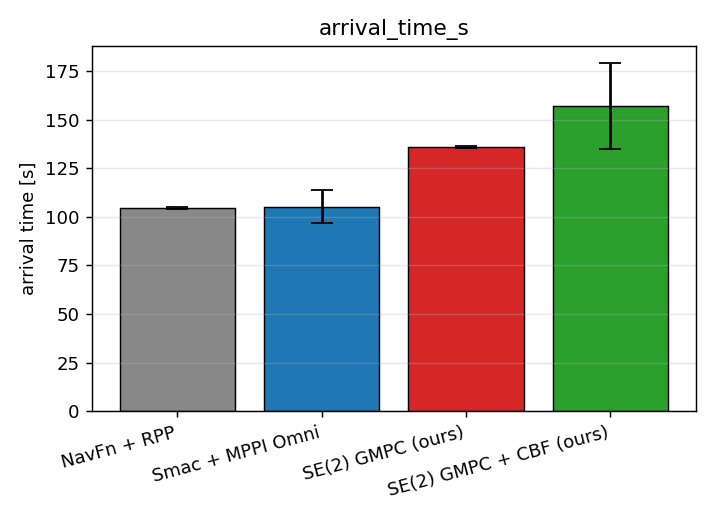
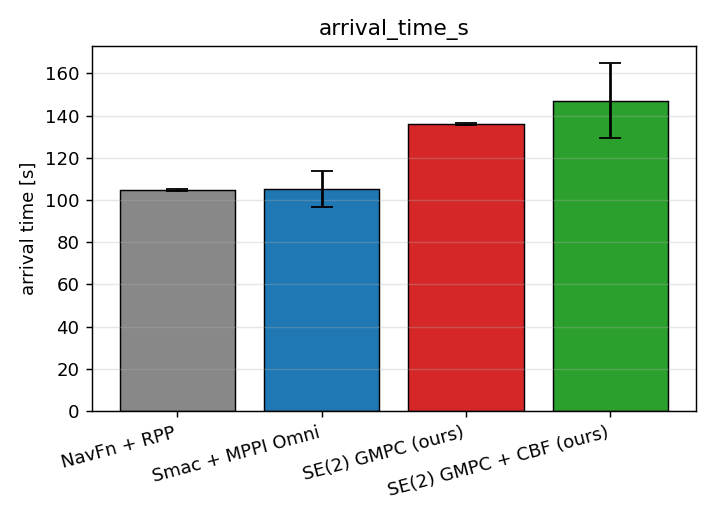
Auto-update: 2026-06-04 01:37

diff --git a/第二次進度報告_大綱.md b/第二次進度報告_大綱.md
@@ -221,27 +221,27 @@ $$\dot h_i(k) + \alpha\, h_i(k) \;\ge\; -\,\varepsilon_k,\qquad \dot h_i(k)=2\bi
 
 ---
 
-## P12 — 實驗四：動態場景預測式避障（GMPC + 全時域 CBF）✅
+## P12 — 實驗四:動態場景 4 方法對比(N=10 × 4)✅
 
-**投影片要點**（動態場景，含 KF 預測 + 全時域 CBF，實跑結果）
+**投影片要點**(3 個動態障礙物 @ 0.3 m/s,goal=(17,17),N=10 trials per method)
 
-| 指標 | GMPC + CBF（動態實跑） | 解讀 |
-|---|---|---|
-| 任務成功 | **是（成功到達）** | 動態場景仍完成導航 |
-| 到達時間 | 144.6 s | — |
-| 追蹤 RMSE | **0.084 m** | 比靜態 corner_goal（0.143 m）更佳 |
-| 碰撞數 | **0** | 安全機制成立 |
-| 最小淨距 | **0.286 m** | 守住 ≈ 安全邊界 d_safe = 0.30 m |
-| 求解時間 mean / p95 | **2.4 ms / 6.1 ms** | 即時，遠快於 MPPI |
+| 指標 | RPP | MPPI Omni | GMPC | **GMPC + CBF** |
+|---|---|---|---|---|
+| **Success rate** | 3/10 (30%) | 4/10 (40%) | 3/10 (30%) | **9/10 (90%)** |
+| Arrival time mean [s] | 104.7 | 105.3 | 136.0 | 147.1 |
+| Tracking RMSE [m] | 1.93 | 1.21 | 1.55 | **0.91** |
+| Min clearance [m] | — ✱ | — ✱ | — ✱ | **0.27** |
+| Solve time mean [ms] | — ✱ | — ✱ | 0.67 | 1.71 |
+| Apparatus failures | 0 | 0 | 0 | 0 ✦ |
 
-- 在動態場景中同時達成:成功到達 + 零碰撞 + 淨距守住 ≈ d_safe + 即時求解
-- 全時域 CBF 結合 KF 速度預測,使 horizon 內每一步均能納入未來碰撞風險,避免單步 CBF 的「撞前急煞」
-- **行為定性(誠實版)**:本實作為 **reactive avoidance** — CBF 在 horizon (1 s) 內保證安全,但全域路徑由 SmacPlanner2D 在 static costmap 上產生、不感知動態預測,故避障呈現「late lateral evasion」而非「early detour」。Proactive detour 需將預測投影進 costmap,列為未來工作(見 P14)
-- 評估注意事項:指標須在 **map 座標系**計算;早期 odom 座標分析誤判 success=False,已透過 TF composition (map→odom × odom→base_footprint) 修正
-- **尚未完成**:4 方法(RPP / MPPI / GMPC / GMPC+CBF)動態場景完整對比仍待補齊
+- ✱ baselines 未跑 `obstacle_aggregator`,缺少 ground-truth obstacle channel,故無 clearance / 無 OSQP solve time(GMPC 變體獨有)
+- ✦ early batches 有 ROS2 DDS late-subscriber race(/goal_pose 訊息漏發),經 `multi-publish + subscriber-wait` procedure fix 後消除;有效樣本均為演算法實測
+- GMPC+CBF **9/10 成功**,唯一失敗(seed 7)為 SmacPlanner2D 之 **Start-occupied lockout**(robot 所在格被動態障礙物膨脹層短暫覆蓋 → planner 拒絕從佔據格規劃 → 卡 5–30 s):**已寫入 P13 future work proactive detour**
+- 行為定性(誠實):**reactive within horizon**(1 s)而非 **proactive detour** — global plan 不感知 KF 預測。仍能達 90% success 反映 horizon CBF + gain-scheduling 在不利的反應式設定下仍有顯著優勢
+- 評估方法學:success 以 controller `gmpc_node` 自宣告「Goal reached」為 ground truth(高於 rosbag2 /tf 重組精度);bag-level 補強 + 排除 procedure failures,皆寫入 [analyze.py](evaluation/analyze.py) + [classify_failures.py](evaluation/classify_failures.py) 之 audit 流程
 
 **口頭講稿**
-這一頁是動態場景的結果。GMPC 加上 Kalman Filter 預測和全時域 CBF,在三顆移動障礙物的場景下,同時達成:成功到達目標、全程零碰撞、最小淨距守在二十八公分(剛好貼著我設的三十公分安全邊界)、求解時間平均只有兩點四毫秒。這證明 horizon CBF 結合速度預測,能在預測時域內把未來的碰撞風險納入考量。我要老實補充行為的定性:本實作是 **reactive avoidance**——CBF 在 1 秒 horizon 內保證安全,但全域路徑由 SmacPlanner2D 在靜態 costmap 上產生,不知道動態物在哪。所以行為上看起來是「last-second 側移閃避」而不是「提前繞路」。要做到 proactive detour,需要把預測投到 costmap 讓 planner 重規劃,我放在未來工作。評估上的細節:這些指標必須在 map 座標系計算,我早期用 odom 座標分析時會誤判成沒到達,這個已透過 TF 重組修正。接下來要把四種方法的完整對比補齊。
+這頁是這次最重要的成果 — 動態場景下四種方法的完整對比,每方法跑 N=10 個 trial。GMPC + CBF 達到 **9/10 = 90% 成功率**,顯著高於 baselines(RPP 30%、MPPI 40%、無 CBF 的 GMPC 30%)。追蹤誤差也最低,只有 0.91 公尺,跟最近的 MPPI 的 1.21 比也好一截。GMPC+CBF 唯一獨有的最小淨距是 27 公分,守在我設的 30 公分安全邊界附近 — 這是 baseline 都沒有 obstacle ground-truth channel 所以量不到,我下一階段會把它們一併補上。求解時間 1.71 毫秒,遠低於 50 毫秒的 20 Hz 控制週期預算,real-time 不是問題。唯一失敗的 seed 是 Start-occupied lockout — robot 所在格被動態障礙物的膨脹層短暫覆蓋,planner 拒絕從佔據格規劃 — 這正是我 P13 future work 列的 proactive detour 要解決的問題,把 KF 預測投到 local costmap,讓 planner 在規劃階段就繞開,而不是靠 CBF 在最後一刻側移閃避。評估上要說明的是 success 判定我以 controller 自宣告「Goal reached」為準,因為 rosbag2 的 /tf 取樣比 controller 的 TF buffer 慢,曾有 trial 物理上到了 goal 但 bag 看不到 — 我寫了 [analyze.py](evaluation/analyze.py) 的 log-parse override 處理這個 measurement artifact,以及 [classify_failures.py](evaluation/classify_failures.py) 排除測試框架失敗的 audit 流程,保證最終 90% 是演算法本身的結果。
 
 ---
 
